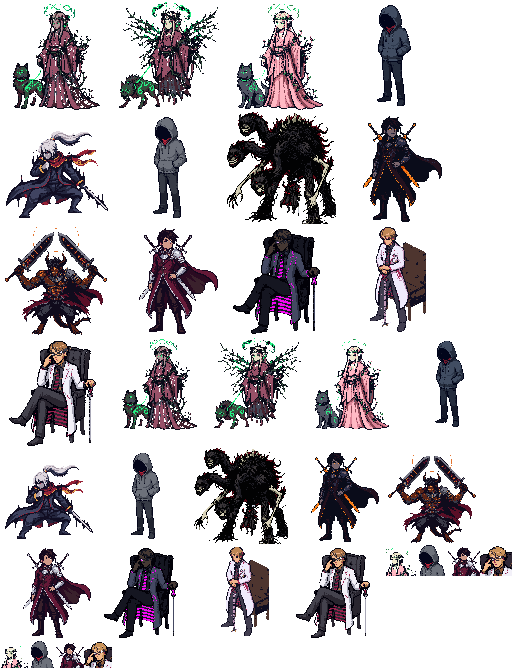
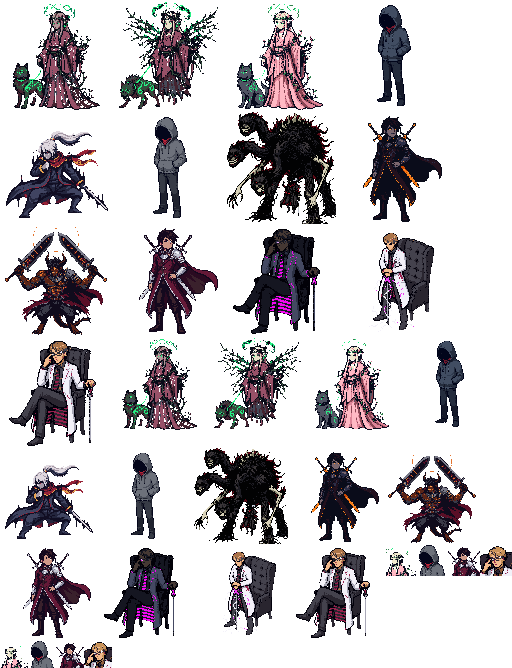
QSB's Final: the same leather armchair as his other forms, sharper and bigger
Redrawn from the turned pose with the wingback armchair from his Light
form; imported uncropped with his Light palette plus a bright magenta
for the electricity and the glass X.

Changed region(s): [[0.7188, 0.3293, 0.8438, 0.509], [0.4375, 0.8084, 0.5625, 0.9581]]

diff --git a/packages/core/src/palette.bosses.ts b/packages/core/src/palette.bosses.ts
@@ -84,30 +84,23 @@ export const bossRamps: Record<string, readonly Rgb[]> = {
   "boss_qsb": [
     [0x02, 0x01, 0x08],
     [0x02, 0x01, 0x0c],
-    [0x10, 0x0e, 0x22],
     [0x15, 0x16, 0x21],
     [0x29, 0x25, 0x2f],
     [0x30, 0x27, 0x35],
     [0x2c, 0x31, 0x44],
     [0x45, 0x38, 0x33],
-    [0x4e, 0x35, 0x2f],
-    [0x42, 0x3e, 0x50],
     [0x44, 0x42, 0x4d],
     [0x78, 0x21, 0x82],
     [0x96, 0x21, 0x4d],
     [0x44, 0x49, 0x62],
-    [0xa2, 0x29, 0x55],
     [0xf5, 0x08, 0xf2],
     [0x92, 0x5f, 0x3d],
     [0xaa, 0x74, 0x4a],
-    [0xbf, 0x87, 0x56],
+    [0xea, 0x3c, 0xf0],
     [0xc9, 0x93, 0x59],
-    [0xc1, 0x98, 0xb8],
     [0xaa, 0xa9, 0xb8],
-    [0xf2, 0xb4, 0x90],
     [0xec, 0xa3, 0xf9],
     [0xf2, 0xba, 0x8e],
-    [0xf0, 0xeb, 0xfc],
     [0xf3, 0xf1, 0xf9],
   ],
 };
